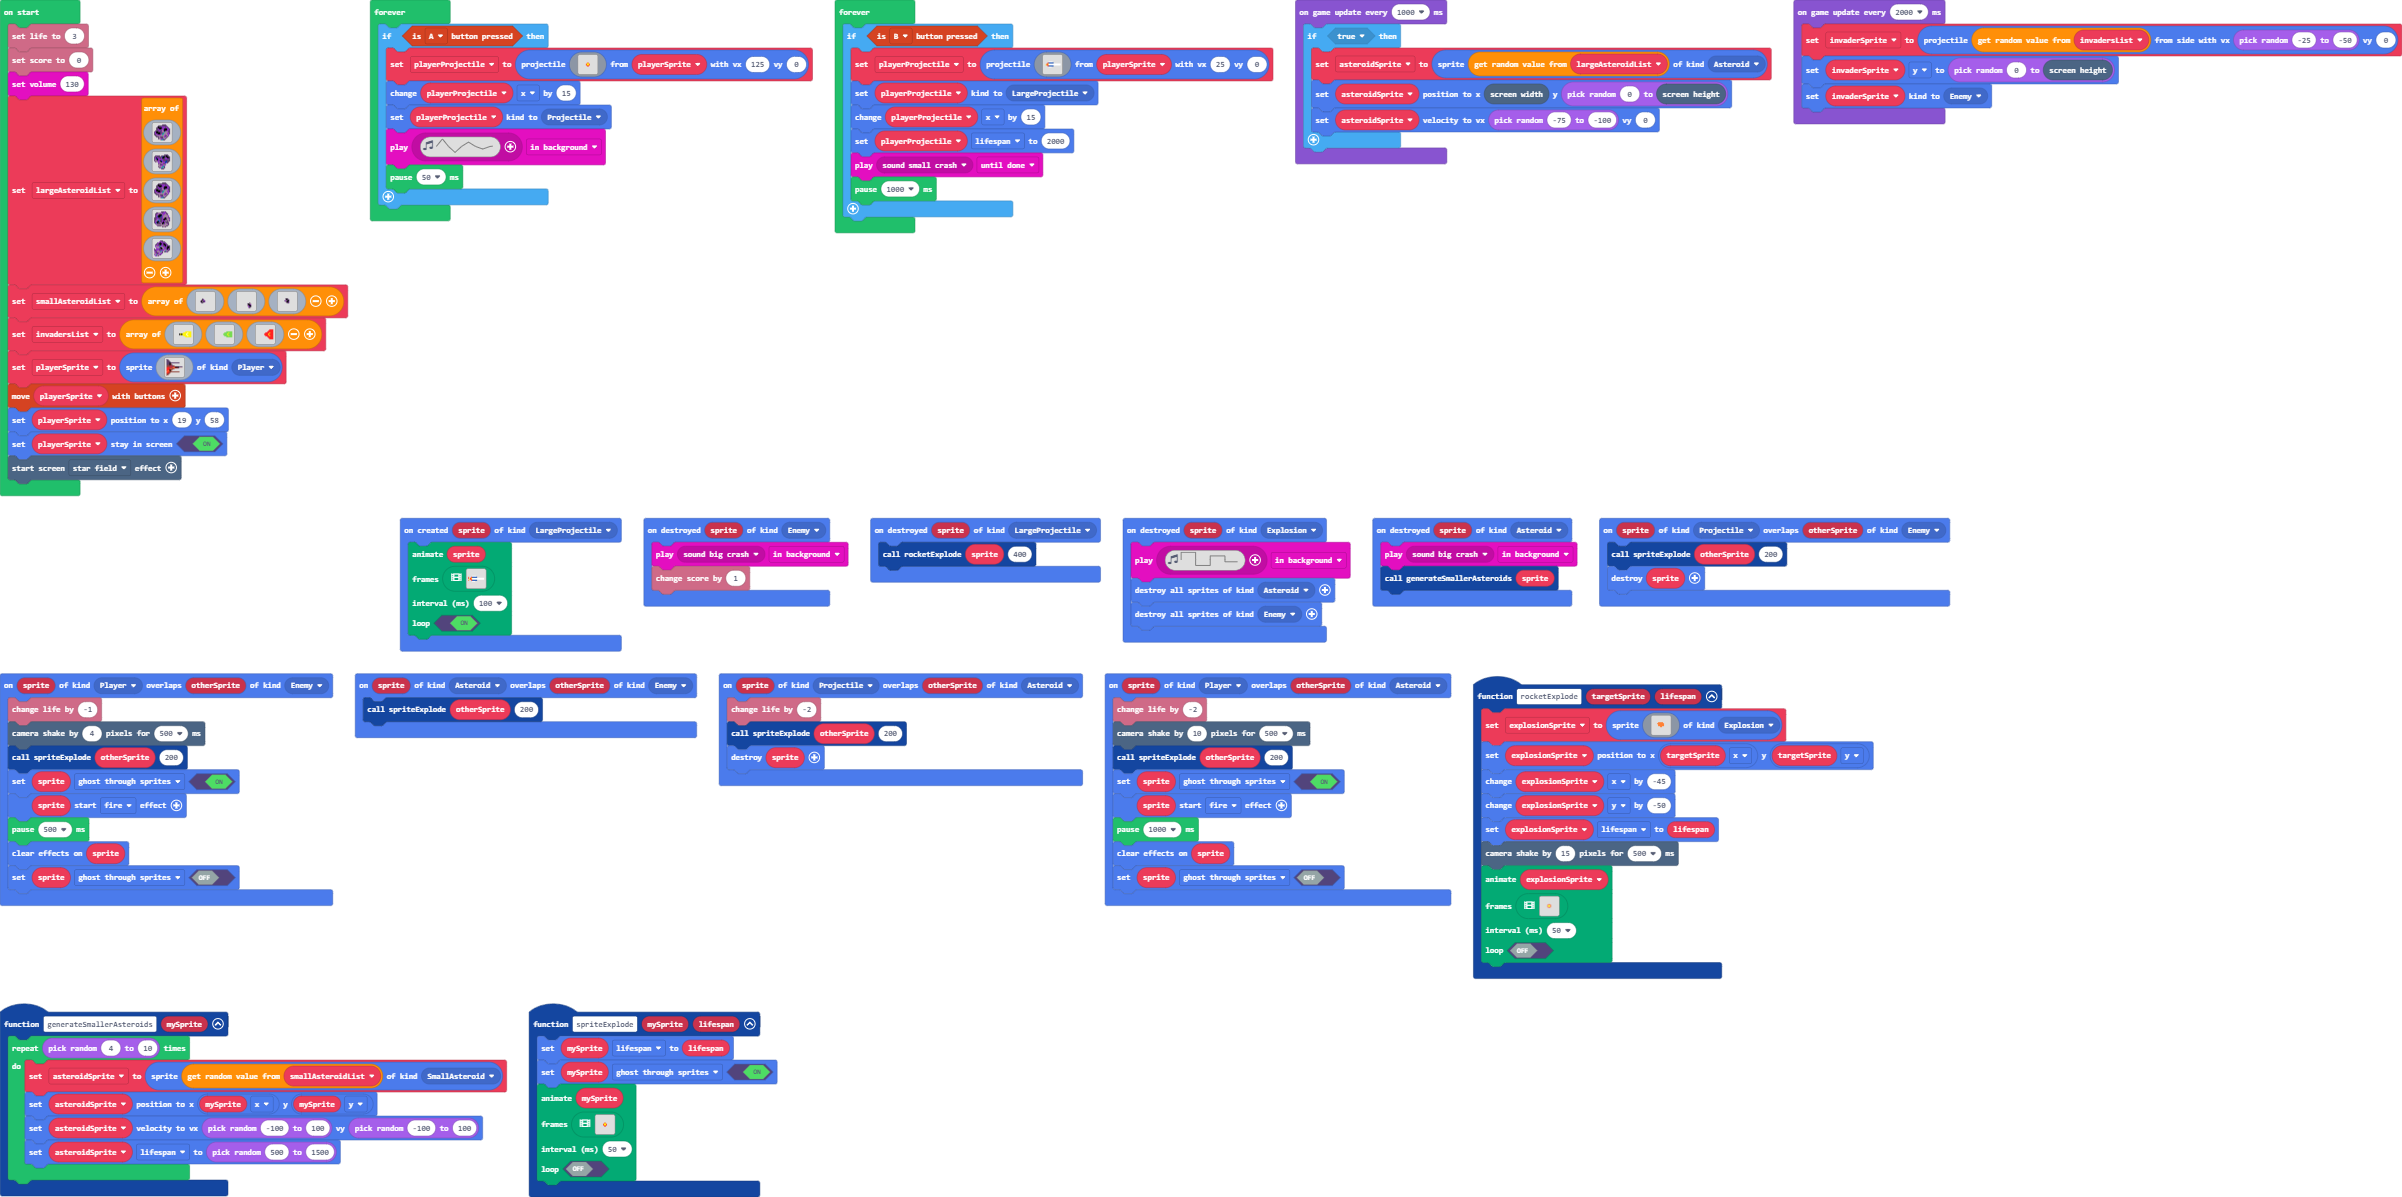
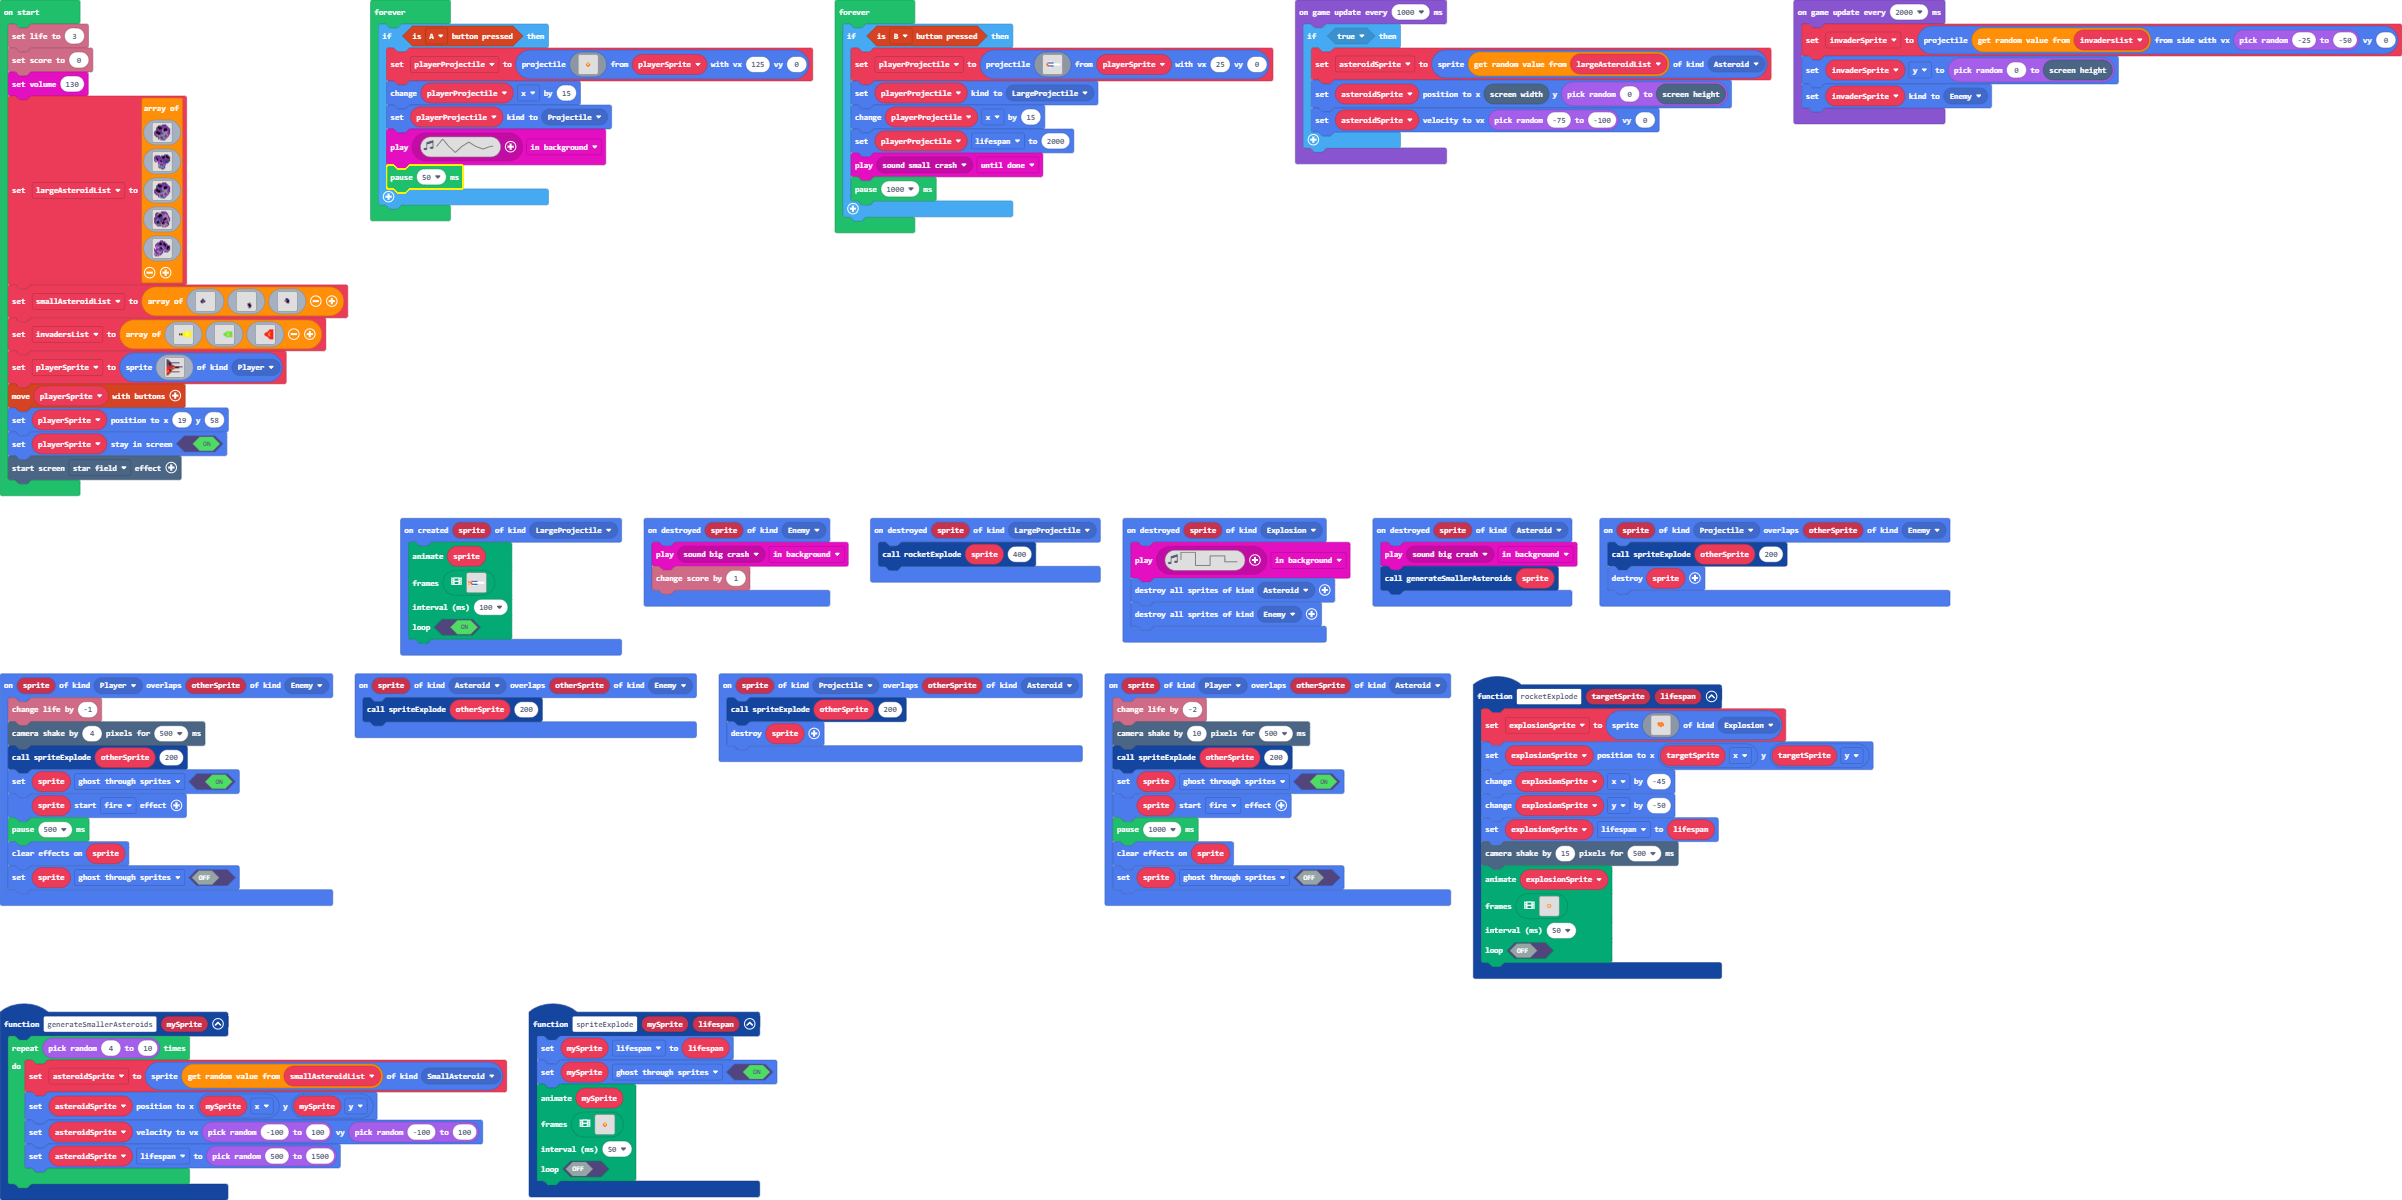
Fixed a bug with asteroids and projectiles

diff --git a/main.ts b/main.ts
@@ -91,7 +91,6 @@ function spriteExplode (mySprite: Sprite, lifespan: number) {
     )
 }
 sprites.onOverlap(SpriteKind.Projectile, SpriteKind.Asteroid, function (sprite, otherSprite) {
-    info.changeLifeBy(-2)
     spriteExplode(otherSprite, 200)
     sprites.destroy(sprite)
 })
